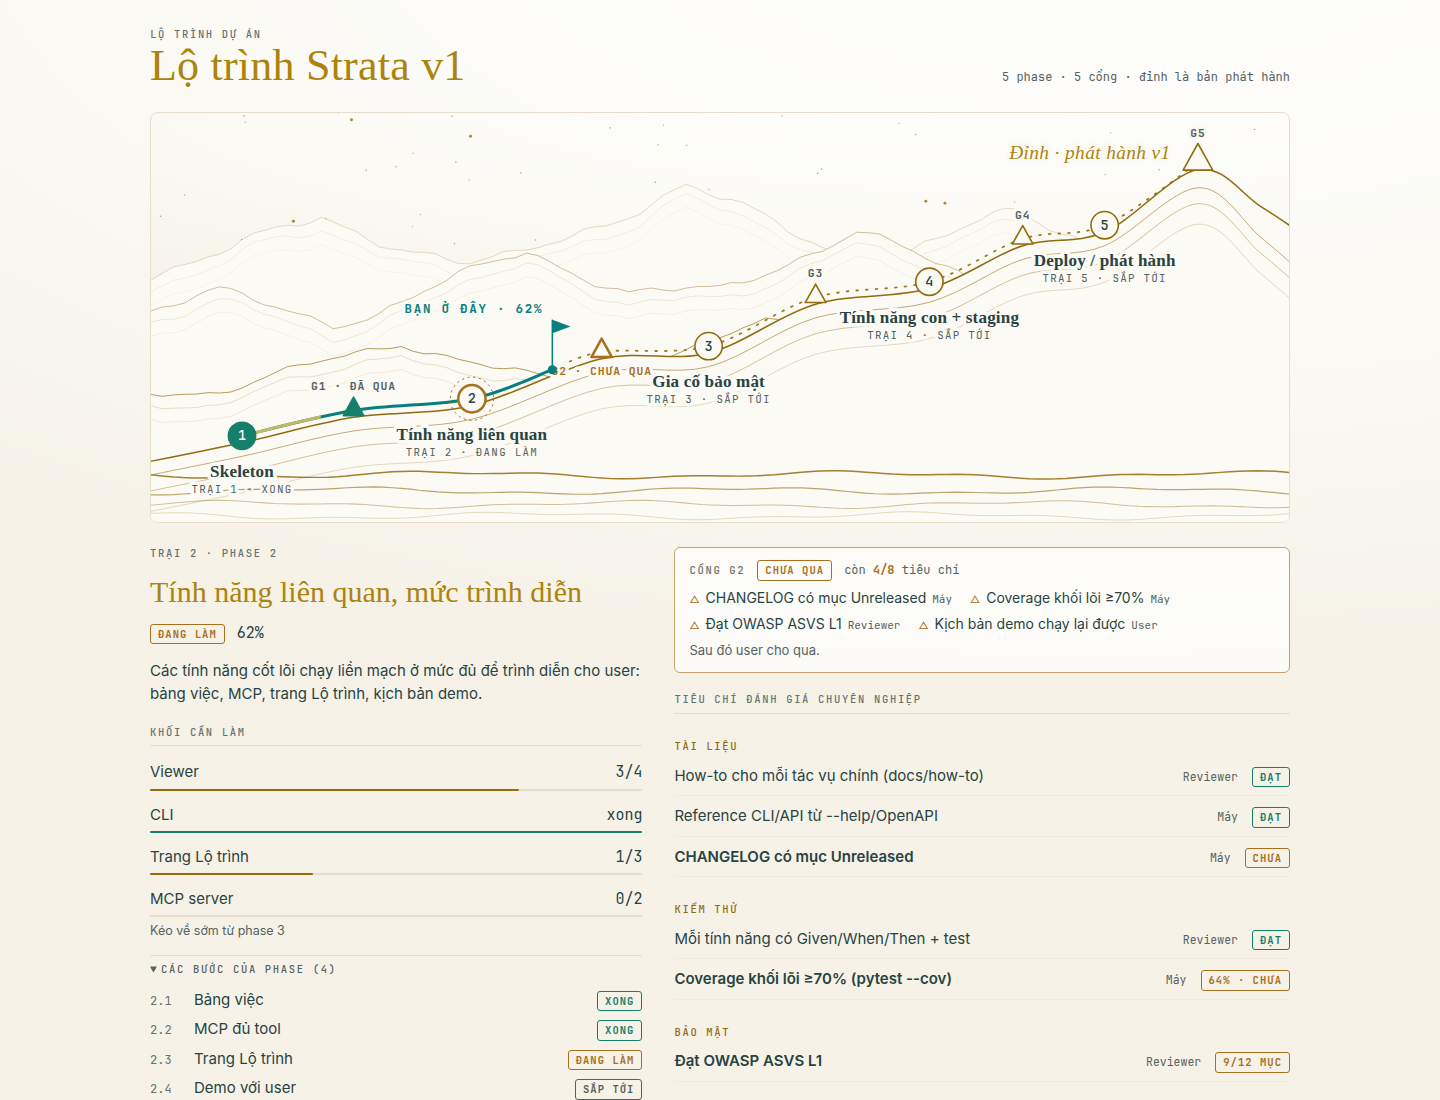
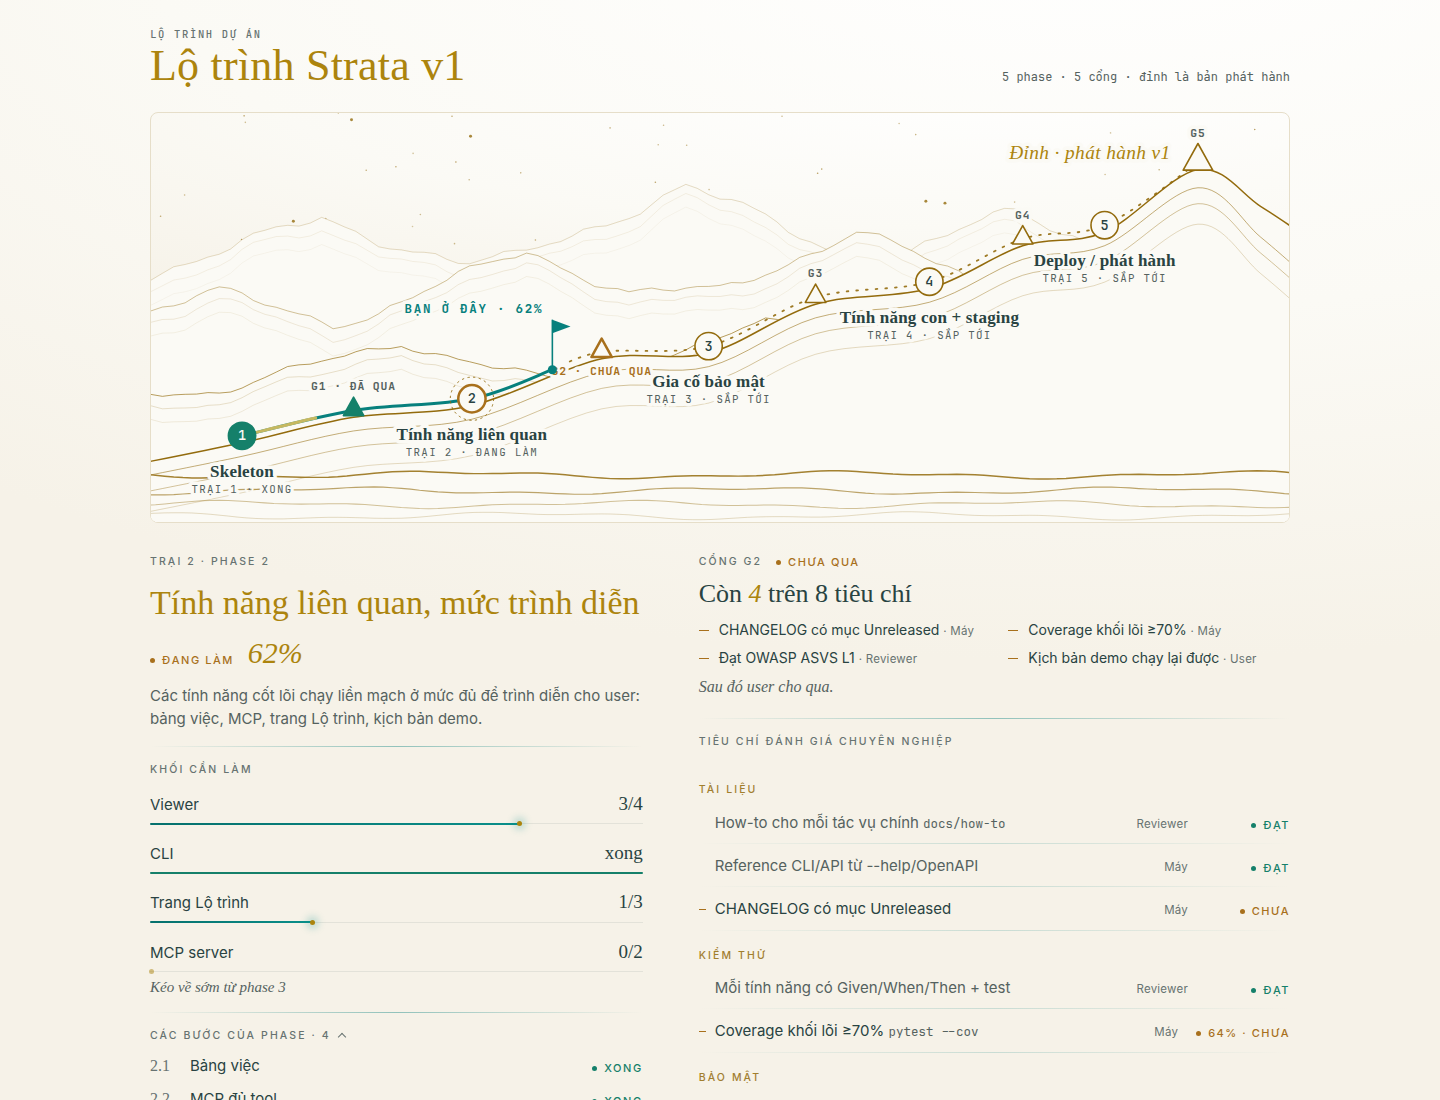
Roadmap astra: refined detail section (no boxes, Cormorant numerals, foil threads)

diff --git a/design/roadmap-astra.html b/design/roadmap-astra.html
@@ -15,6 +15,7 @@
   --fg:#ebe5db; --muted:#a59d93; --faint:#7a7480; --line:#2a2630; --line-soft:#1d1a22;
   --gold-0:#7a5634; --gold:#d3a67c; --gold-3:#f0d6b4; --accent:var(--gold); --accent-soft:rgba(211,166,124,.14);
   --trail:#f0d6b4; --sheen:#fffaf0;
+  --foil:linear-gradient(90deg,#b98a62,#e2b88f); --foil-line:linear-gradient(90deg,transparent,rgba(214,170,128,.55),transparent); --glow:rgba(240,214,180,.7);
   --haze:radial-gradient(120% 70% at 75% -10%,#1e1b26 0%,#100e14 55%,#09080c 100%);
   --edge:linear-gradient(160deg,#f0d6b4,#c9966c 22%,transparent 50%,transparent 78%,#7a5634);
   --st-todo:#a59d93; --st-doing:#d9a24e; --st-done:#6fa595; --st-block:#c06464;
@@ -29,6 +30,7 @@
   --fg:#294342; --muted:#55625f; --faint:#677371; --line:#e6dec9; --line-soft:#f1ebdc;
   --gold-0:#8a6410; --gold:#936b0d; --gold-3:#ac840d; --accent:#07807d; --accent-soft:rgba(7,128,125,.1);
   --trail:#07807d; --sheen:#e8c25a;
+  --foil:linear-gradient(90deg,#06716d,#0a8f8a); --foil-line:linear-gradient(90deg,transparent,rgba(7,128,125,.42),transparent); --glow:rgba(10,143,138,.45);
   --haze:radial-gradient(120% 70% at 75% -10%,#ffffff 0%,#fbfaf5 55%,#f6f2e8 100%);
   --edge:linear-gradient(160deg,#089a96,#07807d 22%,transparent 50%,transparent 78%,#ac840d);
   --st-todo:#55625f; --st-doing:#a8701c; --st-done:#15806a; --st-block:#cd3c35;
@@ -38,6 +40,7 @@
   --fg:#294342; --muted:#55625f; --faint:#677371; --line:#e6dec9; --line-soft:#f1ebdc;
   --gold-0:#8a6410; --gold:#936b0d; --gold-3:#ac840d; --accent:#07807d; --accent-soft:rgba(7,128,125,.1);
   --trail:#07807d; --sheen:#e8c25a;
+  --foil:linear-gradient(90deg,#06716d,#0a8f8a); --foil-line:linear-gradient(90deg,transparent,rgba(7,128,125,.42),transparent); --glow:rgba(10,143,138,.45);
   --haze:radial-gradient(120% 70% at 75% -10%,#ffffff 0%,#fbfaf5 55%,#f6f2e8 100%);
   --edge:linear-gradient(160deg,#089a96,#07807d 22%,transparent 50%,transparent 78%,#ac840d);
   --st-todo:#55625f; --st-doing:#a8701c; --st-done:#15806a; --st-block:#cd3c35;
@@ -98,44 +101,66 @@ svg.map { display: block; width: 100%; min-width: 680px; height: auto; color: va
 .map .summit { font: italic 500 17px var(--display); fill: var(--gold-3); letter-spacing: .02em; }
 
 
-/* chi tiết */
-.detail { display: grid; grid-template-columns: 1fr 1.25fr; gap: 32px; align-items: start; }
-.detail > section { min-width: 0; display: flex; flex-direction: column; gap: 14px; }
-h3 { margin: 0; font: 500 30px/1.1 var(--display); color: var(--gold-3); text-wrap: balance; }
-h4 { margin: 6px 0 0; padding-bottom: 6px; border-bottom: 1px solid var(--line); }
-.goal { margin: 0; max-width: 62ch; color: var(--fg); }
-.blocks { list-style: none; margin: 0; padding: 0; display: flex; flex-direction: column; gap: 12px; }
-.blocks li { display: grid; grid-template-columns: 1fr auto; gap: 4px 12px; align-items: baseline; }
-.blocks .bar { grid-column: 1 / -1; height: 2px; background: var(--line); position: relative; border-radius: 2px; }
-.blocks .bar i { position: absolute; inset: 0 auto 0 0; background: var(--gold); border-radius: 2px; }
-.blocks .bar i.dn { background: var(--st-done); }
-.blocks .note { grid-column: 1 / -1; font-size: 12.5px; color: var(--muted); }
+/* chi tiết: không khung, không chip. Hairline foil + khoảng trắng; số và tiêu đề bằng Cormorant */
+.detail { display: grid; grid-template-columns: 1fr 1.2fr; gap: 56px; align-items: start; padding-top: 8px; }
+.detail > section { min-width: 0; display: flex; flex-direction: column; gap: 16px; }
+.lab { font: 500 10.5px/1.3 var(--body); letter-spacing: .2em; text-transform: uppercase; color: var(--faint); }
+.rule { height: 1px; background: var(--foil-line); border: 0; margin: 0; }
+h3 { margin: 0; font: 500 34px/1.08 var(--display); color: var(--gold-3); text-wrap: balance; }
+.num { font-family: var(--display); font-variant-numeric: oldstyle-nums proportional-nums; }
+.state { display: flex; align-items: baseline; gap: 14px; }
+.pct { font: italic 400 30px/1 var(--display); color: var(--gold-3); font-variant-numeric: oldstyle-nums; }
+.st { font: 500 11px/1 var(--body); letter-spacing: .14em; text-transform: uppercase; font-variant: normal; white-space: nowrap; display: inline-flex; align-items: center; gap: 7px; }
+.st::before { content: ""; width: 5px; height: 5px; border-radius: 50%; background: currentColor; }
+.st.done { color: var(--st-done); } .st.doing { color: var(--st-doing); } .st.todo { color: var(--faint); }
+.st.todo::before { background: transparent; box-shadow: inset 0 0 0 1px currentColor; }
+.goal { margin: 0; max-width: 58ch; color: var(--muted); font-weight: 400; text-wrap: pretty; }
+.blocks { list-style: none; margin: 0; padding: 0; display: flex; flex-direction: column; gap: 18px; }
+.blocks li { display: grid; grid-template-columns: 1fr auto; gap: 7px 12px; align-items: baseline; }
+.blocks .cnt { font: 400 19px/1 var(--display); color: var(--fg); font-variant-numeric: oldstyle-nums; }
+.thread { grid-column: 1 / -1; height: 1px; position: relative; background: color-mix(in srgb, var(--fg) 9%, transparent); }
+.thread i { position: absolute; left: 0; top: -.5px; height: 2px; border-radius: 2px; background: var(--foil); }
+.thread i::after { content: ""; position: absolute; right: -2px; top: -1.5px; width: 5px; height: 5px; border-radius: 50%; background: var(--gold-3); box-shadow: 0 0 8px 2px var(--glow); }
+.thread i.dn { background: var(--st-done); } .thread i.dn::after { display: none; }
+.thread i.zero::after { right: auto; left: -1px; opacity: .5; box-shadow: none; }
+@media (prefers-reduced-motion: no-preference) {
+  .thread i:not(.dn) { background-image: var(--sheen-band, linear-gradient(90deg,transparent 40%,var(--sheen) 50%,transparent 60%)), var(--foil); background-size: 300% 100%, 100% 100%; background-repeat: no-repeat; animation: thr 2.6s ease-out .3s 1 both; }
+}
+@keyframes thr { from { background-position: 100% 0, 0 0; } to { background-position: 0 0, 0 0; } }
+.blocks .note { grid-column: 1 / -1; font: italic 400 15px var(--display); color: var(--muted); }
+details summary { cursor: pointer; list-style: none; display: flex; align-items: center; gap: 8px; }
+details summary::-webkit-details-marker { display: none; }
+details summary::after { content: ""; width: 5px; height: 5px; border-right: 1px solid var(--faint); border-bottom: 1px solid var(--faint); transform: rotate(45deg); margin-top: -3px; transition: transform .3s var(--ease, ease); }
+details[open] summary::after { transform: rotate(-135deg); margin-top: 3px; }
+.steps { list-style: none; margin: 12px 0 0; padding: 0; display: flex; flex-direction: column; gap: 9px; }
+.steps li { display: grid; grid-template-columns: 30px 1fr auto; gap: 10px; align-items: baseline; }
+.id { font: 400 16px var(--display); color: var(--faint); font-variant-numeric: oldstyle-nums; }
+.gate { display: flex; flex-direction: column; gap: 10px; padding-bottom: 6px; }
+.gate .line { font: 400 26px/1.15 var(--display); color: var(--fg); text-wrap: balance; }
+.gate .line em { color: var(--gold-3); font-style: italic; }
+.gmiss { list-style: none; margin: 0; padding: 0; display: grid; grid-template-columns: 1fr 1fr; gap: 6px 28px; }
+.gmiss li { display: flex; gap: 10px; align-items: baseline; min-width: 0; color: var(--fg); font-size: 14px; }
+.gmiss li::before { content: ""; flex: none; width: 10px; height: 1px; background: var(--st-doing); transform: translateY(-4px); }
+.who { font-size: 11.5px; color: var(--faint); letter-spacing: .02em; }
+.then { font: italic 400 16px var(--display); color: var(--muted); }
 .grp { display: flex; flex-direction: column; }
-.grp > .cap { margin: 12px 0 2px; color: var(--gold); }
-.crit { display: grid; grid-template-columns: 1fr auto auto; gap: 2px 14px; padding: 8px 0; border-bottom: 1px solid var(--line-soft); align-items: baseline; }
-.crit .what { min-width: 0; }
-.crit .by { font: 11.5px var(--mono); color: var(--muted); }
-.crit.miss-row .what { font-weight: 600; }
-.gate-box { border: 1px solid var(--line); border-radius: var(--r); padding: 12px 14px; display: flex; flex-direction: column; gap: 6px; background: color-mix(in srgb, var(--card) 70%, transparent); }
-.gate-box.open { border-color: color-mix(in srgb, var(--st-doing) 55%, var(--line)); }
-details summary { cursor: pointer; font: 600 10.5px var(--mono); letter-spacing: .16em; text-transform: uppercase; color: var(--muted); padding: 6px 0; border-top: 1px solid var(--line); }
-.steps { list-style: none; margin: 6px 0 0; padding: 0; display: flex; flex-direction: column; gap: 6px; }
-.steps li { display: grid; grid-template-columns: 34px 1fr auto; gap: 10px; align-items: baseline; }
-.id { font: 12px var(--mono); color: var(--faint); }
-.gc { font: 12px var(--mono); color: var(--muted); } .gc b { color: var(--st-doing); font-weight: 700; }
-.gmiss { list-style: none; margin: 0; padding: 0; display: flex; flex-wrap: wrap; gap: 4px 18px; font-size: 14px; }
-.gmiss li { display: inline-flex; gap: 6px; align-items: baseline; }
-.gmiss li::before { content: "\25B3"; color: var(--st-doing); font-size: 10px; }
-.gmiss .who { font: 11px var(--mono); color: var(--muted); }
-.then { font-size: 13px; color: var(--muted); }
-.empty { margin: 0; color: var(--muted); font-style: italic; }
-.off { border-top: 1px solid var(--line); padding-top: 14px; display: flex; flex-direction: column; gap: 8px; }
-.off ul { list-style: none; margin: 0; padding: 0; display: flex; flex-wrap: wrap; gap: 6px 26px; }
+.grp > .lab { margin: 18px 0 4px; color: var(--gold); opacity: .85; }
+.crit { position: relative; display: grid; grid-template-columns: 1fr auto minmax(84px, auto); gap: 2px 18px; padding: 10px 0 10px 16px; align-items: baseline; }
+.crit::after { content: ""; position: absolute; left: 0; right: 0; bottom: 0; height: 1px; background: var(--foil-line); opacity: .45; }
+.crit .what { min-width: 0; font-weight: 400; color: var(--muted); }
+.crit.miss-row .what { color: var(--fg); }
+.crit.miss-row::before { content: ""; position: absolute; left: 0; top: 50%; width: 7px; height: 1px; background: var(--st-doing); }
+.crit .st { justify-content: flex-end; }
+code { font: 12.5px var(--mono); color: var(--muted); }
+.empty { margin: 0; color: var(--muted); font: italic 400 17px var(--display); }
+.off { position: relative; padding-top: 22px; display: flex; flex-direction: column; gap: 10px; }
+.off::before { content: ""; position: absolute; left: 0; right: 0; top: 0; height: 1px; background: var(--foil-line); }
+.off ul { list-style: none; margin: 0; padding: 0; display: flex; flex-wrap: wrap; gap: 6px 32px; color: var(--muted); }
 
 @media (max-width: 760px) {
   h1 { font-size: 34px; } .meta { text-align: left; }
   .detail { grid-template-columns: 1fr; }
-  .crit { grid-template-columns: 1fr auto; } .crit .what { grid-column: 1 / -1; }
+  .crit { grid-template-columns: 1fr auto; } .crit .what { grid-column: 1 / -1; } .gmiss { grid-template-columns: 1fr; } .detail { gap: 36px; }
 }
 </style>
 </head>
@@ -297,45 +322,49 @@ function drawMap() {
 }
 function renderDetail() {
   const p = PHASES[sel - 1];
+  const fmt = t => esc(t).replace(/\(([^)]*)\)/g, (m, c) => /[-.\/]/.test(c) ? `<code>${c}</code>` : m);
   const blocks = p.blocks.map(b => {
     const done = b.done || (b.d != null && b.d === b.of);
     const pct = b.done ? 100 : Math.round(b.d / b.of * 100);
     const cnt = b.done ? "xong" : `${b.d}/${b.of}`;
-    return `<li><span>${esc(b.t)}</span><span class="mono">${cnt}</span><span class="bar" aria-hidden="true"><i class="${done ? "dn" : ""}" style="width:${pct}%"></i></span>${b.note ? `<span class="note">${esc(b.note)}</span>` : ""}</li>`;
+    return `<li><span>${esc(b.t)}</span><span class="cnt">${cnt}</span><span class="thread" aria-hidden="true"><i class="${done ? "dn" : pct === 0 ? "zero" : ""}" style="width:${pct}%"></i></span>${b.note ? `<span class="note">${esc(b.note)}</span>` : ""}</li>`;
   }).join("");
-  const crit = p.crit ? p.crit.map(([g, rows]) =>
-    `<div class="grp"><span class="cap">${esc(g)}</span>${rows.map(r =>
-      `<div class="crit ${r[2] ? "" : "miss-row"}"><span class="what">${esc(r[0])}</span><span class="by">${esc(r[1])}</span><span class="tag ${r[2] ? "done" : "doing"}">${esc(r[3])}</span></div>`).join("")}</div>`).join("")
-    : `<p class="empty">Tiêu chí đánh giá của phase này chưa được lập. Sẽ viết khi phase trước qua cổng.</p>`;
-  const steps = p.steps.length ? `<details open><summary>Các bước của phase (${p.steps.length})</summary><ul class="steps">${p.steps.map(s =>
-    `<li><span class="id">${s[0]}</span><span>${esc(s[1])}</span><span class="tag ${s[2]}">${lbl[s[2]]}</span></li>`).join("")}</ul></details>` : "";
-  const gs = p.gate.state;
   const all = p.crit ? p.crit.flatMap(([, rows]) => rows) : [];
   const miss = all.filter(r => !r[2]);
-  const gateCount = all.length ? `<span class="gc">còn <b>${miss.length}/${all.length}</b> tiêu chí</span>` : "";
-  const gateBody = miss.length && gs === "open"
-    ? `<ul class="gmiss">${miss.map(r => `<li>${esc(r[0].replace(/\s*\(.*\)$/, ""))} <span class="who">${esc(r[1])}</span></li>`).join("")}</ul><span class="then">Sau đó user cho qua.</span>`
-    : `<span>${esc(p.gate.note)}</span>`;
-  const gateTag = gs === "done" ? "done" : gs === "open" ? "doing" : "todo";
-  const gateTxt = gs === "done" ? "đã qua" : gs === "open" ? "chưa qua" : "sắp tới";
+  const crit = p.crit ? p.crit.map(([g, rows]) =>
+    `<div class="grp"><span class="lab">${esc(g)}</span>${rows.map(r =>
+      `<div class="crit ${r[2] ? "" : "miss-row"}"><span class="what">${fmt(r[0])}</span><span class="who">${esc(r[1])}</span><span class="st ${r[2] ? "done" : "doing"}">${esc(r[3])}</span></div>`).join("")}</div>`).join("")
+    : `<p class="empty">Tiêu chí đánh giá của phase này chưa được lập. Sẽ viết khi phase trước qua cổng.</p>`;
+  const steps = p.steps.length ? `<details open><summary class="lab">Các bước của phase · ${p.steps.length}</summary><ul class="steps">${p.steps.map(s =>
+    `<li><span class="id">${s[0]}</span><span>${esc(s[1])}</span><span class="st ${s[2]}">${lbl[s[2]]}</span></li>`).join("")}</ul></details>` : "";
+  const gs = p.gate.state;
+  const gTone = gs === "done" ? "done" : gs === "open" ? "doing" : "todo";
+  const gTxt = gs === "done" ? "đã qua" : gs === "open" ? "chưa qua" : "sắp tới";
+  const gate = gs === "open" && all.length
+    ? `<div class="line">Còn <em class="num">${miss.length}</em> trên <span class="num">${all.length}</span> tiêu chí</div>
+       <ul class="gmiss">${miss.map(r => `<li><span>${esc(r[0].replace(/\s*\(.*\)$/, ""))} <span class="who">· ${esc(r[1])}</span></span></li>`).join("")}</ul>
+       <span class="then">Sau đó user cho qua.</span>`
+    : `<div class="line">${esc(p.gate.note)}</div>`;
   $("detail").innerHTML =
     `<section>
-       <span class="cap">Trại ${p.n} · phase ${p.n}</span>
+       <span class="lab">Trại ${p.n} · phase ${p.n}</span>
        <h3>${esc(p.name)}</h3>
-       <div class="row"><span class="tag ${p.state}">${lbl[p.state]}</span>${p.state==="doing" ? `<span class="mono">${p.pct}%</span>` : ""}</div>
+       <div class="state"><span class="st ${p.state}">${lbl[p.state]}</span>${p.state==="doing" ? `<span class="pct">${p.pct}%</span>` : ""}</div>
        <p class="goal">${esc(p.goal)}</p>
-       <h4 class="cap">Khối cần làm</h4>
+       <hr class="rule">
+       <span class="lab">Khối cần làm</span>
        <ul class="blocks">${blocks}</ul>
-       ${steps}
+       ${steps ? `<hr class="rule">${steps}` : ""}
      </section>
      <section>
-       <div class="gate-box ${gs}"><div class="row"><span class="cap">Cổng ${p.gate.id}</span><span class="tag ${gateTag}">${gateTxt}</span>${gateCount}</div>${gateBody}</div>
-       <h4 class="cap">Tiêu chí đánh giá chuyên nghiệp</h4>
-       ${crit}
+       <div class="gate"><div class="state"><span class="lab">Cổng ${p.gate.id}</span><span class="st ${gTone}">${gTxt}</span></div>${gate}</div>
+       <hr class="rule">
+       <span class="lab">Tiêu chí đánh giá chuyên nghiệp</span>
+       <div>${crit}</div>
      </section>`;
 }
 function select(n) { sel = n; drawMap(); renderDetail(); }
-$("off").innerHTML = `<span class="cap">Ngoài lộ trình</span><ul>${OFF.map(o => `<li><span class="id">${o[0]}</span> ${esc(o[1])}</li>`).join("")}</ul>`;
+$("off").innerHTML = `<span class="lab">Ngoài lộ trình</span><ul>${OFF.map(o => `<li><span class="id">${o[0]}</span> ${esc(o[1])}</li>`).join("")}</ul>`;
 select(CUR);
 </script>
 </body>
